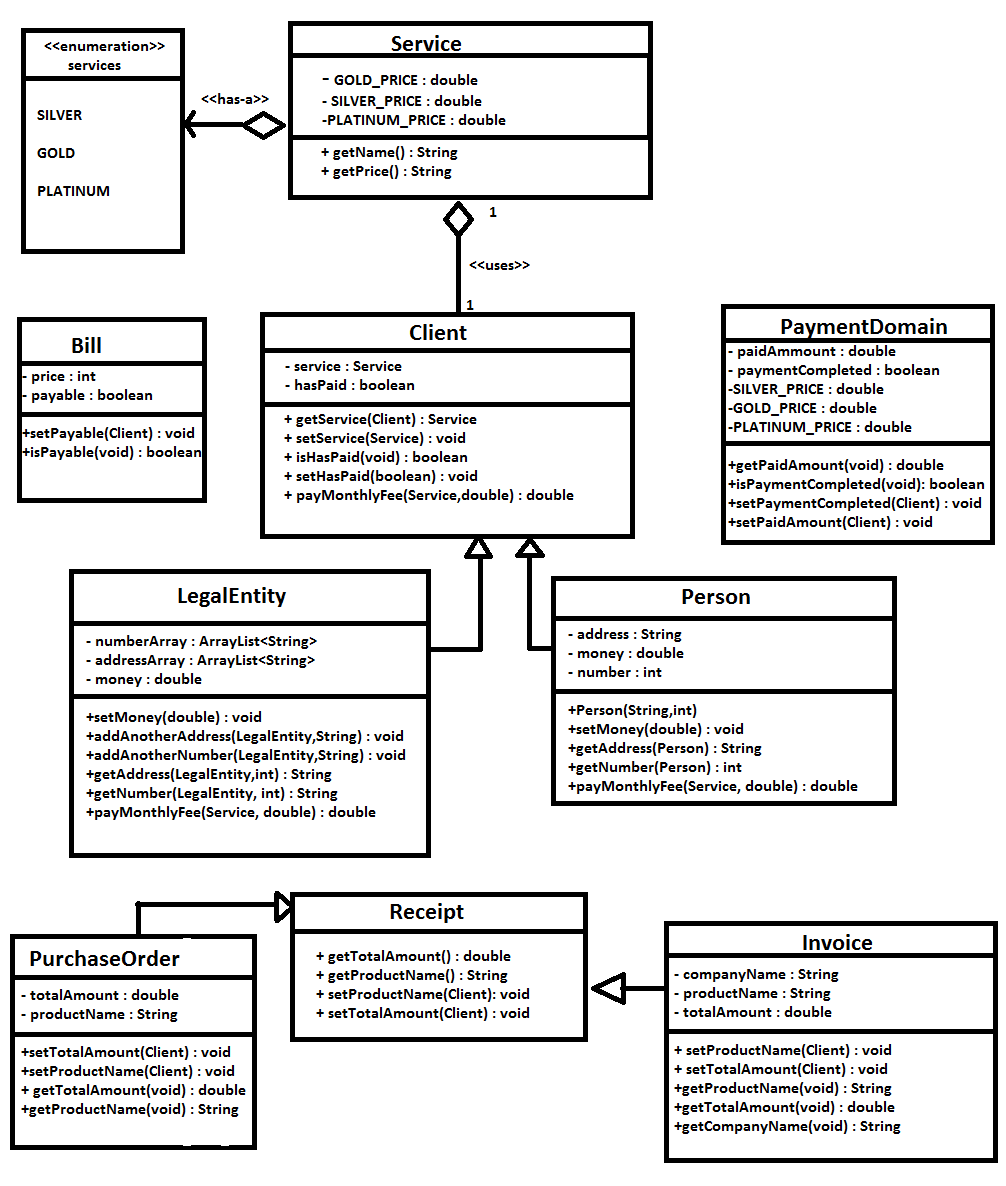
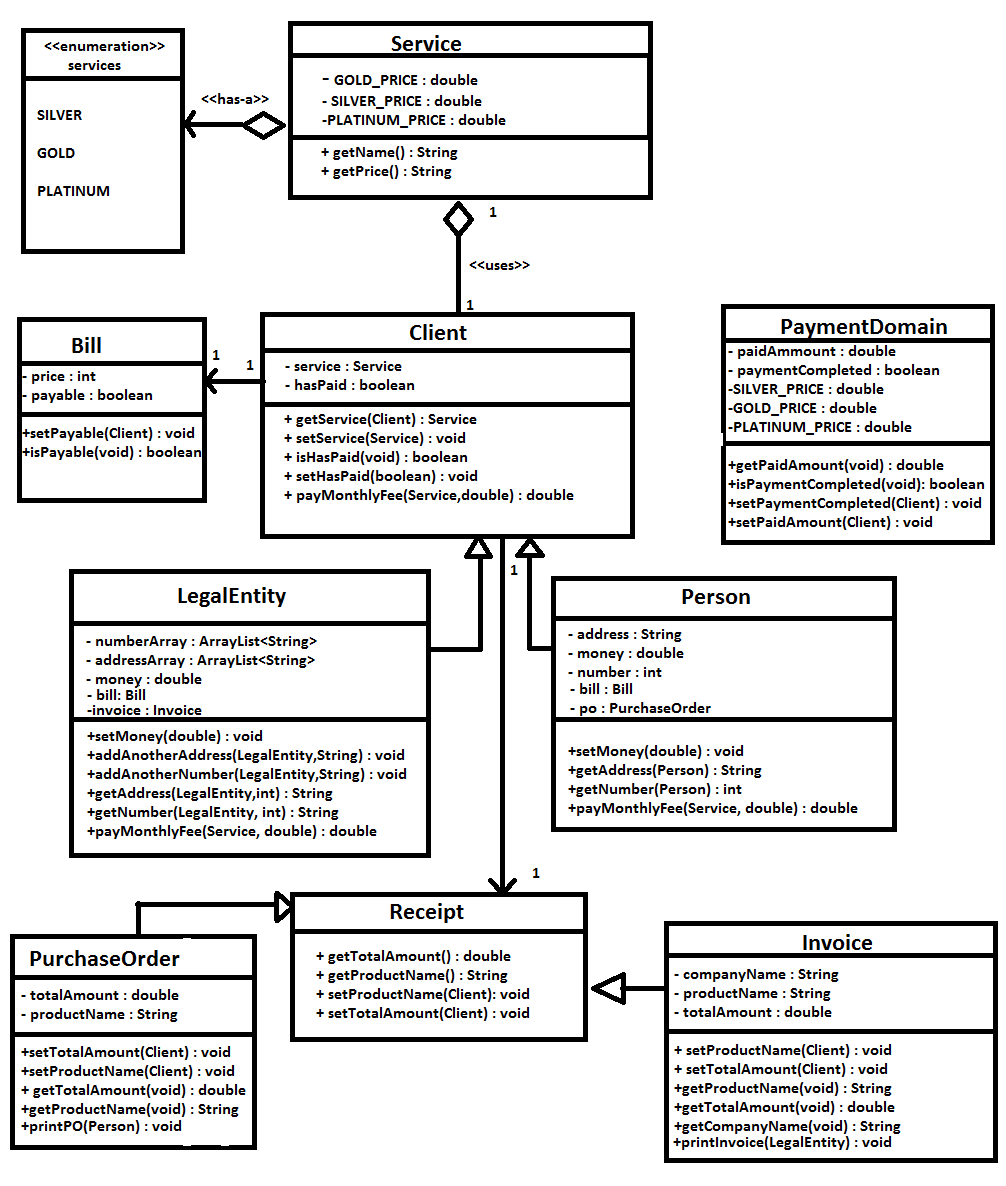
no message

diff --git a/DeltaTask/src/platform/LegalEntity.java b/DeltaTask/src/platform/LegalEntity.java
@@ -7,57 +7,78 @@ public class LegalEntity extends Client
     private ArrayList<String> numberArray=new ArrayList<String>();
     private ArrayList<String> addressArray= new ArrayList<String>();
     private double money;
-    protected boolean hasPaid;
-    //contructor
+    Invoice invoice = new Invoice();
+    Bill bill = new Bill();
+    //constructor
     public LegalEntity(String num, String address){
-        addressArray.add(address);
-        numberArray.add(num);
+        this.addressArray.add(address);
+        this.numberArray.add(num);
     }
-    public void setMoney(LegalEntity e, double money){
-
+    // Setter for private variable money
+    public void setMoney(double money){
         this.money = money;
     }
+
     // if we have multiple addresses and numbers we can add them
+
     public void addAnotherAddress(LegalEntity client,String newAddress){
-        addressArray.add(newAddress);
+        this.addressArray.add(newAddress);
     }
     public void addAnotherNumber(LegalEntity client,String newNumber){
-        numberArray.add(newNumber);
+        this.numberArray.add(newNumber);
     }
+
     //getters
+
     public String getAddresses(LegalEntity entity,int indexOfAddress){
-        return addressArray.get(indexOfAddress);
+        return this.addressArray.get(indexOfAddress);
     }
     public String getNumbers(LegalEntity entity,int indexOfNumber){
-        return numberArray.get(indexOfNumber);
+        return this.numberArray.get(indexOfNumber);
     }
+
     public double payMonthlyFee(Service s,double sum)
-    {
+    {   double temp;
         if(s.getPrice()>=sum)
         {
-            hasPaid=true;
-            return sum;
+            setHasPaid(true);
+            temp=sum;
+            return temp;
         }
-        else return 0.0;
+        else {
+            setHasPaid(false);
+            temp=0.0;
+            return temp;
+        }
     }
 
 
     public static void main(String[] args) {
+
         Service s = new Service(Service.Services.GOLD);
         LegalEntity client =new LegalEntity("988893","13,Khan Krum str.");
         client.addAnotherAddress(client,"23,AnotherStreet str.");
         client.addAnotherNumber(client,"098s90s0a");
         client.setService(s);
-        System.out.println(client.getService(client).getName()+" \n "+client.getAddresses(client,1));
+        System.out.println(client.getService().getName()+" \n "+client.getAddresses(client,1));
         System.out.println(client.getNumbers(client,1));
         PaymentDomain pd = new PaymentDomain();
-        client.setMoney(client,10.0);
-        client.payMonthlyFee(client.getService(client),client.money);
-        System.out.println("has paid : "+ client.hasPaid + "  \n ");
-        pd.setPaidAmmount(client,service);
+        client.invoice.setProductName(client);
+        client.invoice.setTotalAmount(client);
+
+        client.setMoney(200.0);
+        // client.payMonthlyFee(client.getService(),client.money);
+
+        /*System.out.println("has paid : "+ client.isHasPaid()+ "  \n ");
         pd.setPaymentCompleted(client);
-        System.out.println("paid amount : "+ pd.getPaidAmount(client)+"\n");
-        System.out.println("Is the payment completed : "+ pd.isPaymentCompleted(client)+"\n");
+        pd.setPaidAmount(client);
+*/
+        System.out.println("paid amount : "+ pd.getPaidAmount()+"\n");
+        System.out.println("Is the payment completed : "+ pd.isPaymentCompleted()+"\n");
+
+        client.invoice.printInvoice(client);
+        client.bill.setPayable(client);
+        System.out.println(client.bill.isPayable());
 
     }
 }

diff --git a/DeltaTask/src/platform/Person.java b/DeltaTask/src/platform/Person.java
@@ -5,7 +5,8 @@ public class Person extends Client {
     private String address = new String();
     private int number;
     private double money;
-    protected boolean hasPaid;
+    Bill bill = new Bill();
+    PurchaseOrder po=new PurchaseOrder();
     // class constructor//
     public Person (String address, int number){
         this.address=address;
@@ -17,19 +18,21 @@ public class Person extends Client {
     }
     // getter for number//
     public int getNumber(Person person){
-        return person.number;
+        return this.number;
     }
 
     public double payMonthlyFee(Service s,double sum)
-    {
+    {   double temp;
         if(s.getPrice()>=sum)
         {
-            hasPaid=true;
-            return sum;
+           setHasPaid(true);
+           temp=sum;
+           return temp;
         }
         else {
-            hasPaid = false;
-            return 0.0;
+            setHasPaid(false);
+            temp=0;
+            return temp;
         }
     }
 
@@ -41,16 +44,20 @@ public class Person extends Client {
         person.money=200;
         Service service = new Service(Service.Services.GOLD);
         person.setService(service);
-        System.out.println(person.getService(person).getName()+"\n price: "+service.getPrice()+" leva");
+        System.out.println(person.getService().getName()+"\n price: "+service.getPrice()+" leva");
         person.payMonthlyFee(service,person.money);
-        System.out.println("has paid : "+ person.hasPaid + "  \n ");
-        pd.setPaidAmmount(person,service);
+        System.out.println("has paid : "+ person.isHasPaid() + "  \n ");
+        pd.setPaidAmount(person);
         pd.setPaymentCompleted(person);
-        System.out.println("paid amount : "+ pd.getPaidAmount(person)+"\n");
-        System.out.println("Is the payment completed : "+ pd.isPaymentCompleted(person)+"\n");
-        Bill bill=new Bill();
-        bill.setPayable(person);
-        System.out.println(bill.isPayable());
+        System.out.println("paid amount : "+ pd.getPaidAmount()+"\n");
+        System.out.println("Is the payment completed : "+ pd.isPaymentCompleted()+"\n");
+
+        person.bill.setPayable(person);
+        System.out.println("is the bill payable: " + person.bill.isPayable());
+
+        person.po.setProductName(person);
+        person.po.setTotalAmount(person);
+        person.po.printPO(person);
     }
 
 }

diff --git a/DeltaTask/src/platform/PaymentDomain.java b/DeltaTask/src/platform/PaymentDomain.java
@@ -3,27 +3,29 @@ package platform;
 public class PaymentDomain {
      private double paidAmount;
      private boolean paymentCompleted;//depends on whether the client has paid
-     private static final int SILVER_PRICE=100;
-     private static final int GOLD_PRICE=200;
-     private static final int PLATINUM_PRICE=300;
+     private static final double SILVER_PRICE=100;
+     private static final double GOLD_PRICE=200;
+     private static final double PLATINUM_PRICE=300;
 
-    public double getPaidAmount(Client client) {
-        return paidAmount;
+    public double getPaidAmount() {
+        return this.paidAmount;
     }
 
-    public boolean isPaymentCompleted(Client client) {
-        return paymentCompleted;
+    public boolean isPaymentCompleted() {
+        return this.paymentCompleted;
     }
 
-    public void setPaymentCompleted(Client client) {
-        paymentCompleted= client.hasPaid;
-    }
-
-    public void setPaidAmmount(Client client,Service s)
+    public void setPaymentCompleted(Client client)
     {
-        if(client.hasPaid){
-            paidAmount =client.getService(client).getPrice();
-        }
+        if(client.isHasPaid())
+        this.paymentCompleted=true;
+    }
+
+    public void setPaidAmount(Client client)
+    {
+        if(client.isHasPaid())
+            this.paidAmount =client.getService().getPrice();
+
     }
 
 }

diff --git a/DeltaTask/src/platform/Invoice.java b/DeltaTask/src/platform/Invoice.java
@@ -7,25 +7,32 @@ public class Invoice extends Receipt {
     private double totalAmount;
 
     public void setProductName(Client client){
-        productName=LegalEntity.service.getName();
+        productName=client.getService().getName();
     }
 
     @Override
     public void setTotalAmount(Client client) {
-        totalAmount=LegalEntity.service.getPrice();
+        totalAmount=client.getService().getPrice();
     }
 
     @Override
     public String getProductName() {
-        return productName;
+        return this.productName;
     }
 
     @Override
     public double getTotalAmount() {
-        return totalAmount;
+        return this.totalAmount;
     }
 
     public String getCompanyName() {
-        return companyName;
+        return this.companyName;
+    }
+
+    public void printInvoice(LegalEntity entity){
+        System.out.println("Invoice for "+entity.getNumbers(entity,1));
+        System.out.println("Total Amount : "+ getTotalAmount());
+        System.out.println("\n Package : "+ getProductName());
+
     }
 }

diff --git a/DeltaTask/src/platform/PurchaseOrder.java b/DeltaTask/src/platform/PurchaseOrder.java
@@ -5,12 +5,12 @@ public class PurchaseOrder extends Receipt {
     private String productName;
     @Override
     public void setTotalAmount(Client client) {
-        totalAmount=Person.service.getPrice();
+        totalAmount=client.getService().getPrice();
     }
 
     @Override
     public void setProductName(Client client) {
-        productName=Person.service.getName();
+        productName=client.getService().getName();
     }
 
     @Override
@@ -21,5 +21,12 @@ public class PurchaseOrder extends Receipt {
     @Override
     public String getProductName() {
         return productName;
+    }
+
+    public void printPO(Person person){
+
+            System.out.println("Invoice for "+person.getNumber(person));
+            System.out.println("Total Amount : "+ getTotalAmount());
+            System.out.println("\n Package : "+ getProductName());
     }
 }

diff --git a/DeltaTask/src/platform/Client.java b/DeltaTask/src/platform/Client.java
@@ -1,14 +1,25 @@
 package platform;
 
 public abstract class Client {//abstract class for client.
-    static Service service;
-    public boolean hasPaid;
-    public Service getService(Client client){
+    private static Service service;
+    private boolean hasPaid;
+
+    public Service getService(){
         return this.service;
     }
+
     public void setService(Service s){
         this.service=s;
     }
-    public abstract  double payMonthlyFee(Service s,double sum);
+
+    public boolean isHasPaid() {
+        return this.hasPaid;
+    }
+
+    public void setHasPaid(boolean hasPaid) {
+        this.hasPaid = hasPaid;
+    }
+
+    public abstract  double payMonthlyFee(Service s, double sum);
 
 }

diff --git a/DeltaTask/src/platform/Bill.java b/DeltaTask/src/platform/Bill.java
@@ -5,11 +5,11 @@ public class Bill {
     private boolean payable;
 
     public void setPayable(Client client){
-        if(!client.hasPaid)// if the client hasn't paid=> can pay the bill
-            payable=true;
+        if(!client.isHasPaid())// if the client hasn't paid=> can pay the bill
+            this.payable=true;
 
 
-        else payable=false;
+        else this.payable=false;
     }
 
     public boolean isPayable() {

diff --git a/DeltaTask/src/platform/Service.java b/DeltaTask/src/platform/Service.java
@@ -11,7 +11,7 @@ public class Service {
         SILVER,
         PLATINUM
     }
-    private Services services;
+    Services services;
     // class constructor
     public Service(Services services) {
         this.services = services;
@@ -31,7 +31,7 @@ public class Service {
         }
 
     }
-    public double getPrice()
+    public double getPrice() // gets package price
     {
         switch (services)
         {
